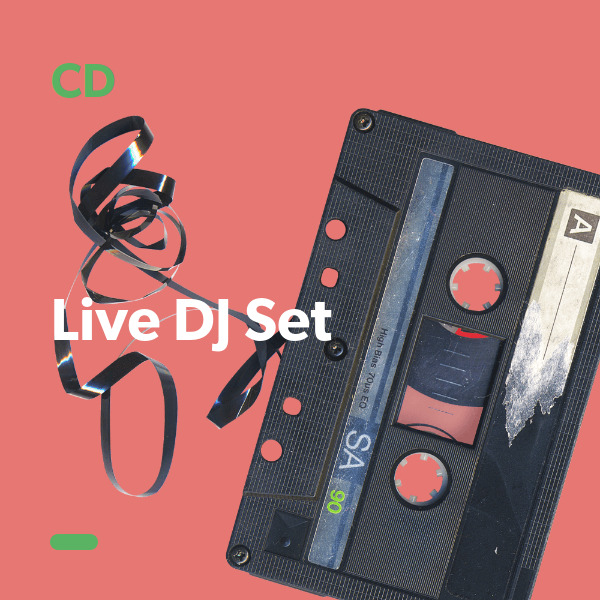
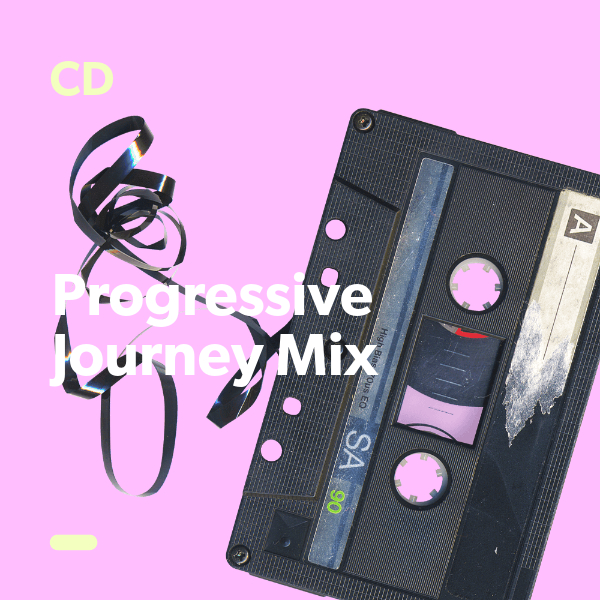
Schedule & Archive updates

diff --git a/_includes/archive.md b/_includes/archive.md
@@ -1,10 +1,28 @@
+### Saturday May 23rd
+---
+
+#### 11am Miss R <a href="https://open.spotify.com/playlist/54SBurXB5sCb1B2Rx2SXSO" target="_blank" title="Go to playlist"> <i class="fab fa-spotify fa-inverse"></i></a> 
+![cover art](assets/owner/images/20200523-11am.jpeg)
+
+#### 1pm Esther <a href="https://open.spotify.com/playlist/3tioUQoK65On3BwXRnvxOo" target="_blank" title="Go to playlist"> <i class="fab fa-spotify fa-inverse"></i></a> 
+![cover art](assets/owner/images/20200523-1pm.jpeg)
+
+#### 4pm Stella <a href="https://open.spotify.com/playlist/1QvnbM3hhLbt5Akbn8Lb0x" target="_blank" title="Go to playlist"> <i class="fab fa-spotify fa-inverse"></i></a> 
+![cover art](assets/owner/images/20200523-4pm.jpeg)
+
+#### 7pm DJ Sebster <a href="https://www.mixcloud.com/Glastonauts_Live/dj-sebster-the-space-funk-session/" target="_blank" title="Go to recording"> <i class="fab fa-mixcloud fa-inverse"></i></a>
+![cover art](assets/owner/images/20200523-7pm.jpeg)
+
+#### 9pm Andy Davies b2b Sir Styles 
+![cover art](assets/owner/images/20200523-9pm.jpeg)
+
 ### Friday May 22nd
 ---
 
 #### 4pm TomKat (replay) <a href="https://open.spotify.com/playlist/6Br6SHlDgMaSon4R68OTCD" target="_blank" title="Go to playlist"> <i class="fab fa-spotify fa-inverse"></i></a>
 ![cover art](assets/owner/images/20200425-5pm.jpeg)
 
-#### 7pm Sal
+#### 7pm Sal  <a href="https://www.mixcloud.com/Glastonauts_Live/sal-deep-prog-techno/" target="_blank" title="Go to recording"> <i class="fab fa-mixcloud fa-inverse"></i></a>
 ![cover art](assets/owner/images/20200522-7pm.jpeg)
 
 #### 9pm Dan M
@@ -30,9 +48,8 @@
 #### 4pm Bren <a href="https://open.spotify.com/playlist/3ExBGTcEPYrAThqCPQ5Ct3" target="_blank" title="Go to playlist"> <i class="fab fa-spotify fa-inverse"></i></a>
 ![cover art](assets/owner/images/20200520-4pm.jpeg)
 
-#### 7pm CD
+#### 7pm CD <a href="https://www.mixcloud.com/Glastonauts_Live/cd-progressive-journey-mix/" target="_blank" title="Go to recording"> <i class="fab fa-mixcloud fa-inverse"></i></a>
 ![cover art](assets/owner/images/20200520-7pm.jpeg)
-
 
 
 ### Sunday May 17th

diff --git a/_includes/schedule.md b/_includes/schedule.md
@@ -1,20 +1,3 @@
-### Saturday May 23rd
----
-
-#### 11am Miss R
-![cover art](assets/owner/images/20200523-11am.jpeg)
-
-#### 1pm Esther
-![cover art](assets/owner/images/20200523-1pm.jpeg)
-
-#### 4pm Stella
-![cover art](assets/owner/images/20200523-4pm.jpeg)
-
-#### 7pm DJ Sebster
-![cover art](assets/owner/images/20200523-7pm.jpeg)
-
-#### 9pm Andy Davies b2b Sir Styles 
-![cover art](assets/owner/images/20200523-9pm.jpeg)
 
 
 ### Sunday May 24th
